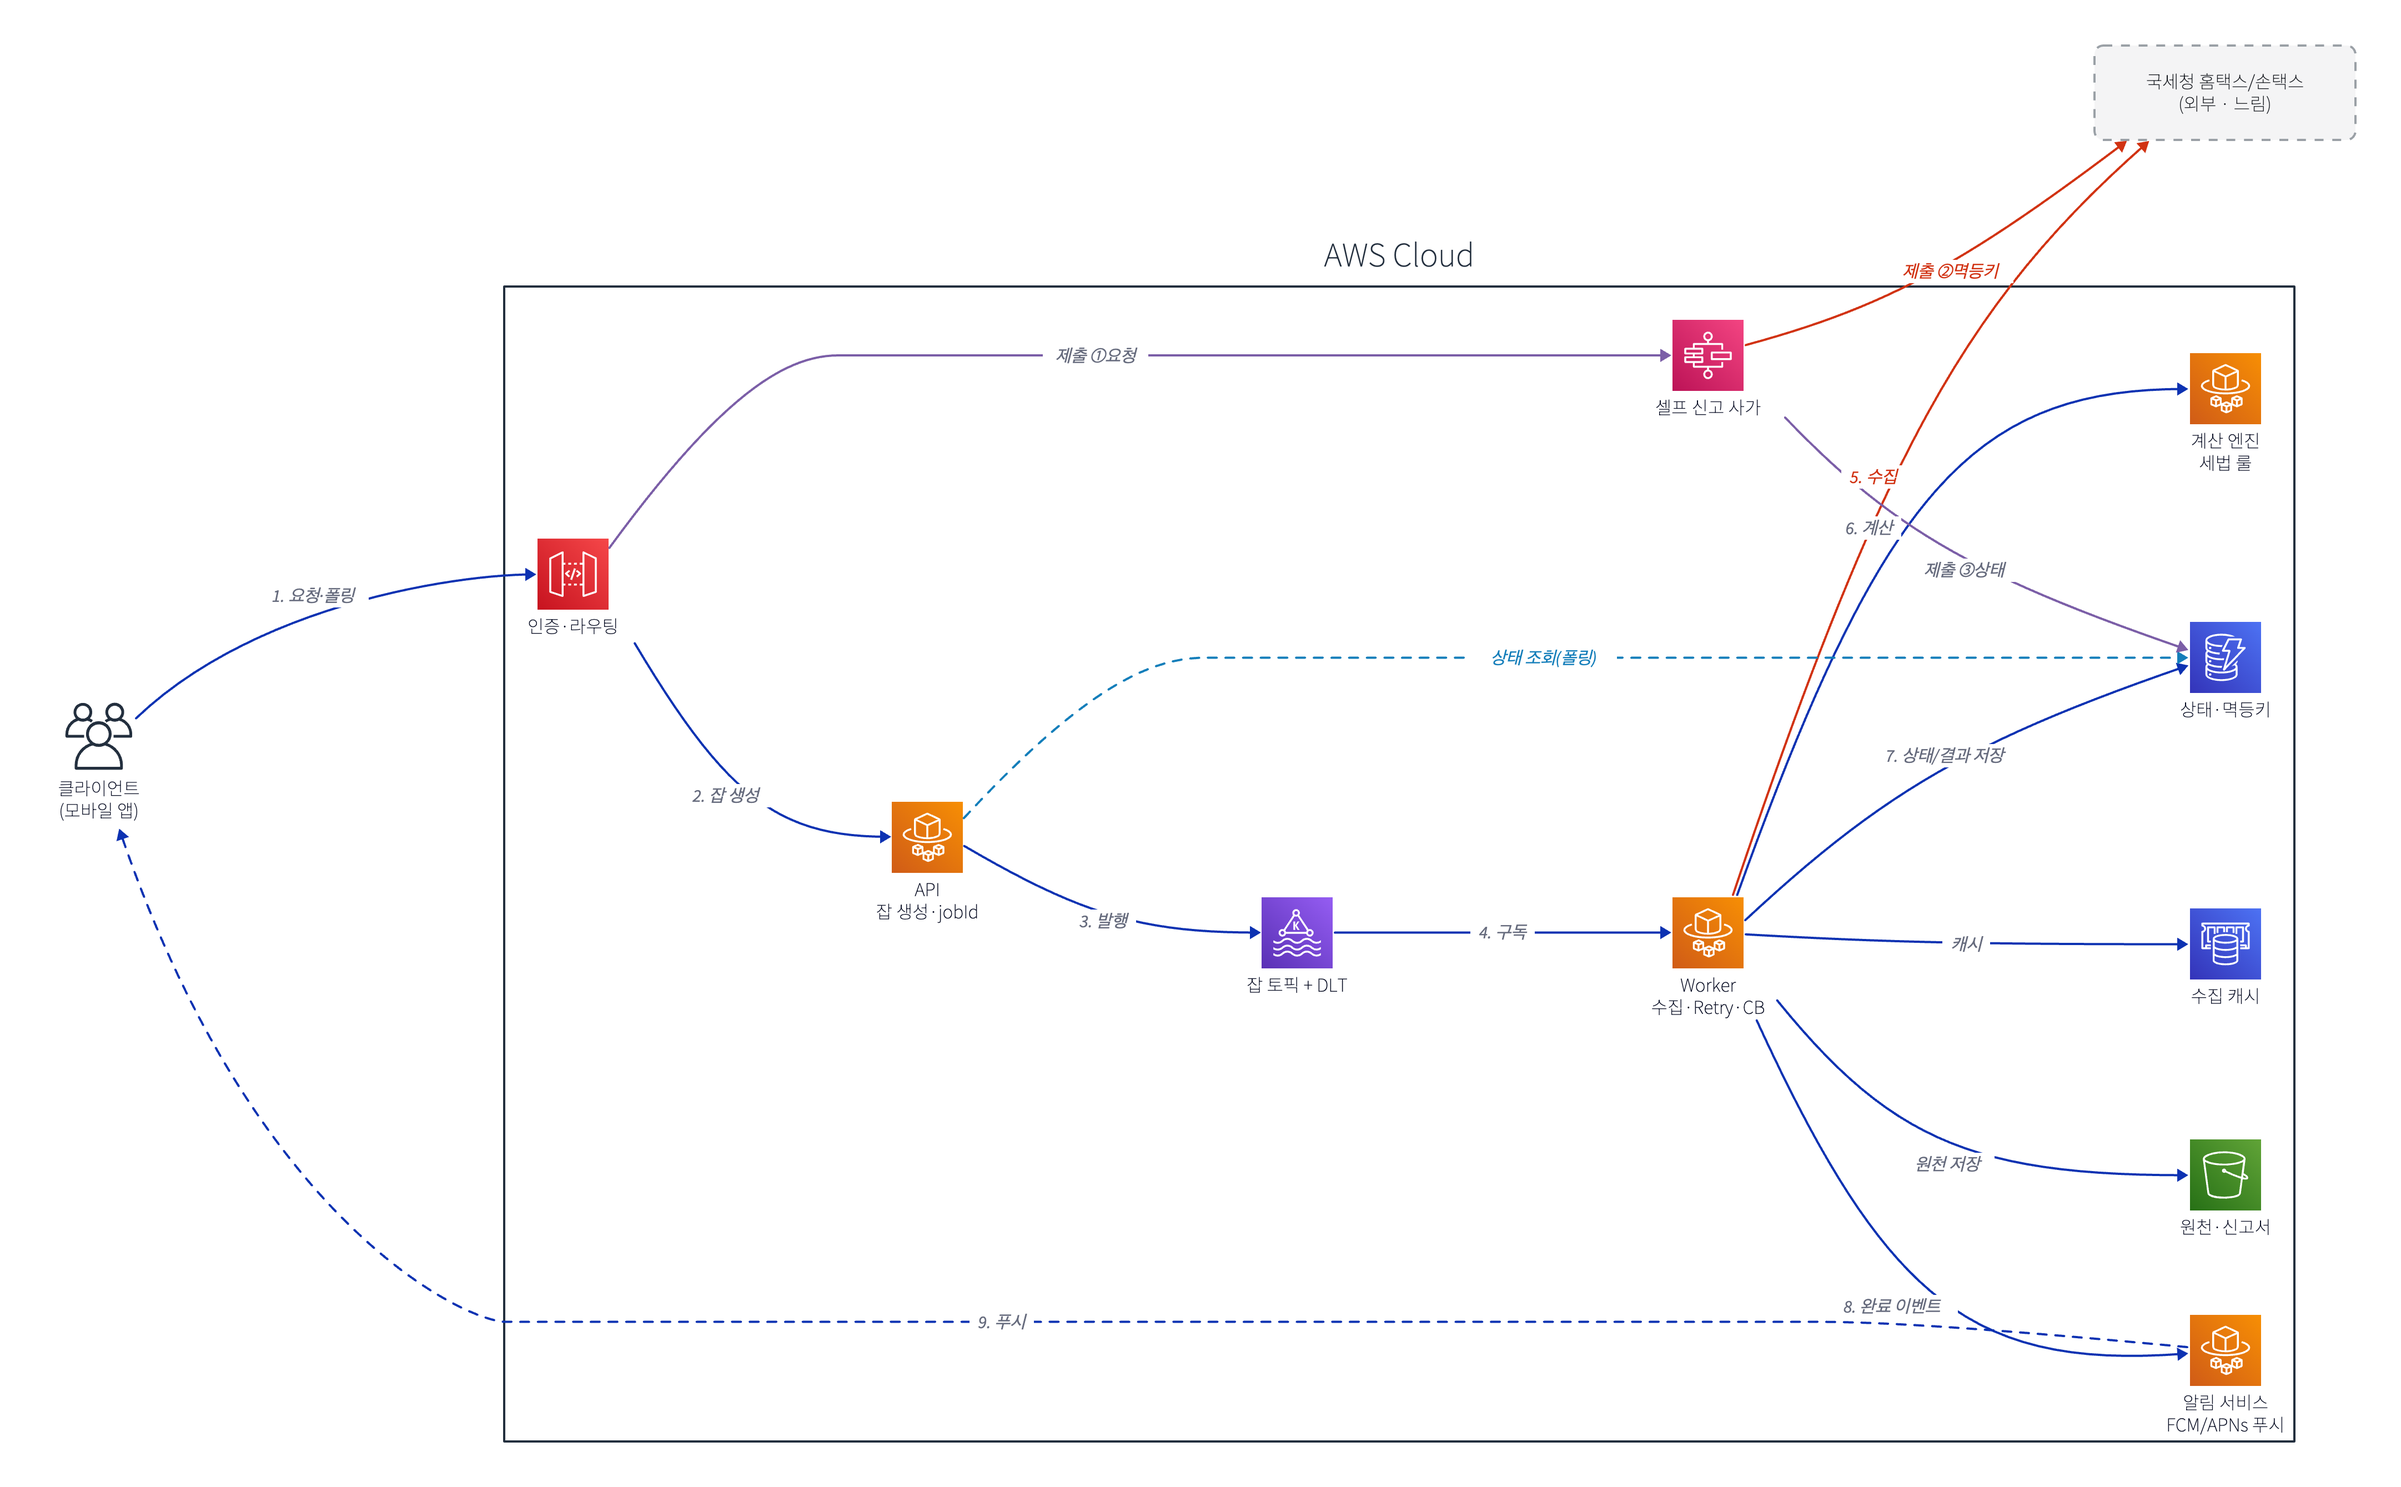
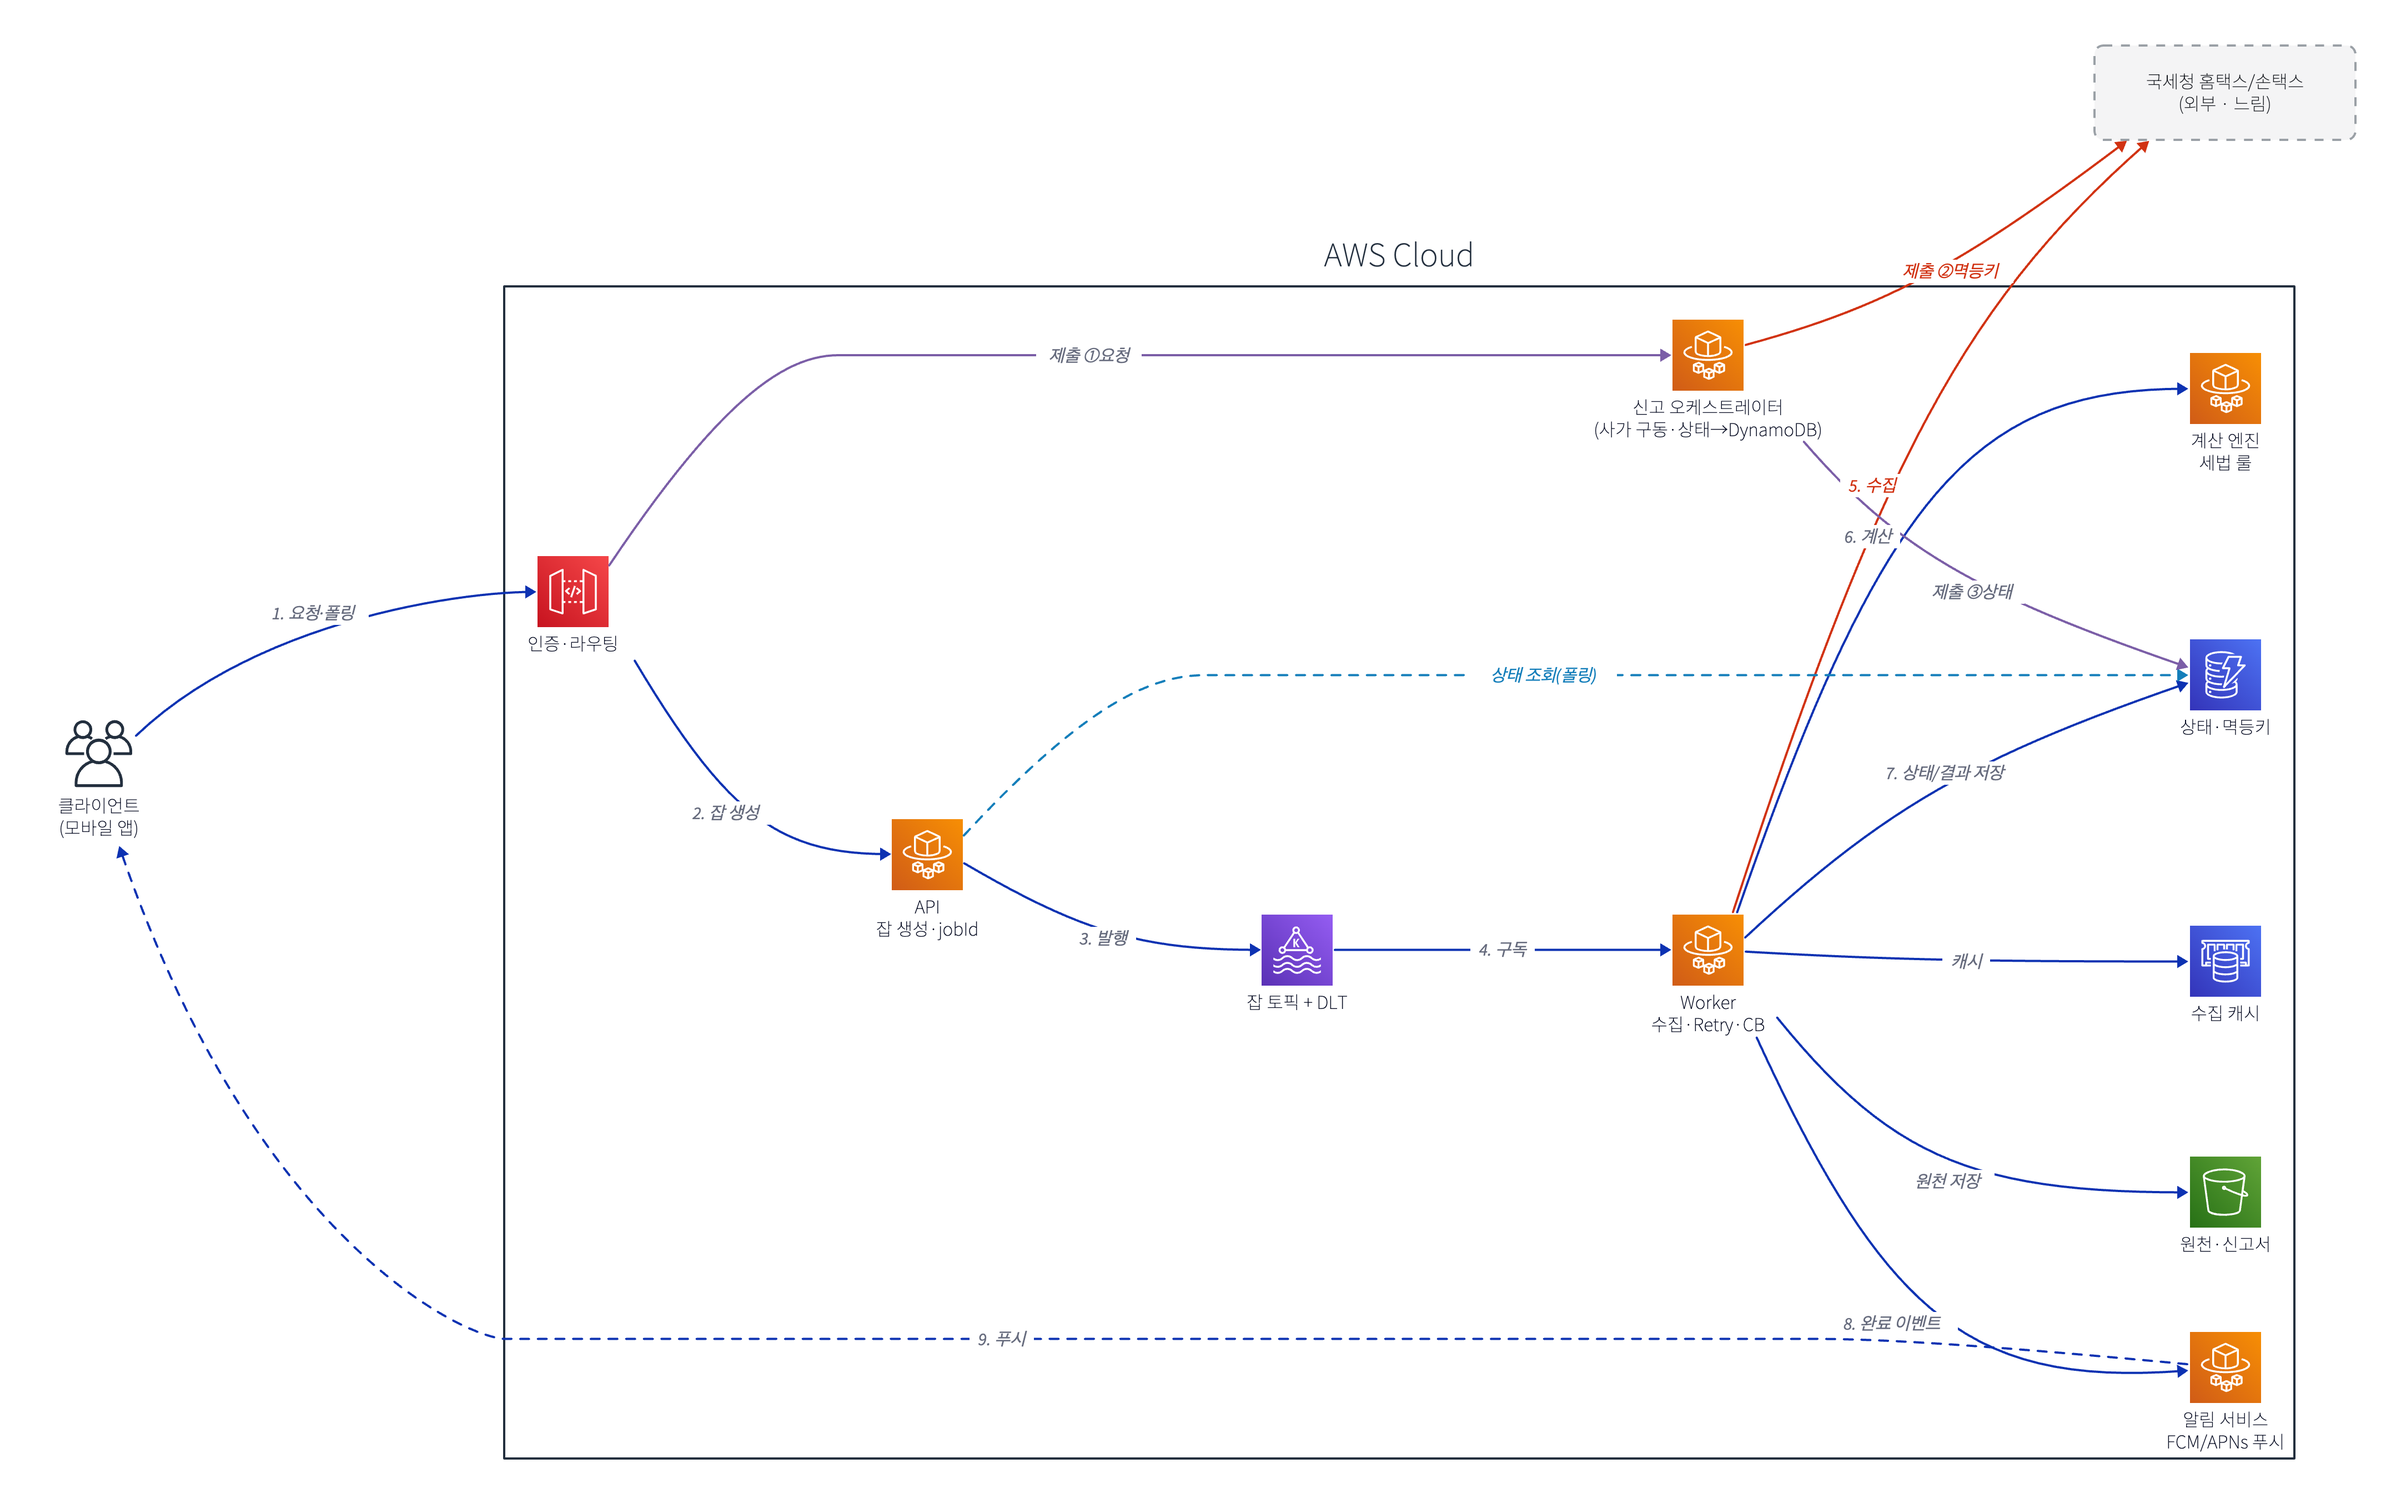
docs: 제출 사가를 Step Functions→신고 오케스트레이터(Spring 서비스)로 교체
AWS 매니지드 락인 지양 방향에 맞춰, 짧은 사가는 Spring 오케스트레이터(상태→DynamoDB)로.
★ 다이어그램 노드 교체(Fargate 아이콘) + L2 본문 정정 + Temporal 승급 경로 메모.

diff --git a/system-design/260611-종소세-환급-설계.md b/system-design/260611-종소세-환급-설계.md
@@ -72,7 +72,7 @@
 **L1 대비 추가** — 남은 문제를 정확히 겨냥해서 얹는다:
 
 - **읽기 보호(2⃣)**: Worker→국세청 경로에 Retry(backoff+jitter) · Circuit Breaker · Rate Limiter, **ElastiCache** 단기 캐시, **Kafka DLT**(dead-letter topic) ⇒ 국세청이 흔들려도 격리·완충.
-- **쓰기 사가(3⃣4⃣)**: API Gateway→**Step Functions**(`검증 → 제출(멱등키) → 접수확인 폴링 → 완료기록`, 실패 시 보상). 같은 멱등키 → **한 번만 접수**, 타임아웃 시 **상태 재확인 후 판단**(성공 오판 금지).
+- **쓰기 사가(3⃣4⃣)**: API Gateway→**신고 오케스트레이터**(Spring 서비스, 사가를 코드로 구동·상태는 DynamoDB): `검증 → 제출(멱등키) → 접수확인 폴링 → 완료기록`, 실패 시 보상. 같은 멱등키 → **한 번만 접수**, 타임아웃 시 **상태 재확인 후 판단**(성공 오판 금지). *(워크플로가 길고 복잡해지면 Temporal 같은 durable workflow 엔진으로 승급)*
 - **부가**: 완료 **알림 서비스**(FCM/APNs) · **S3**(원천·신고서) · 횡단(KMS/Secrets·룰셋 버저닝+계산 스냅샷·관측).
 
 > 읽기는 "견디기", 쓰기는 "정확히 한 번" — 이 비대칭이 설계의 뼈대.
